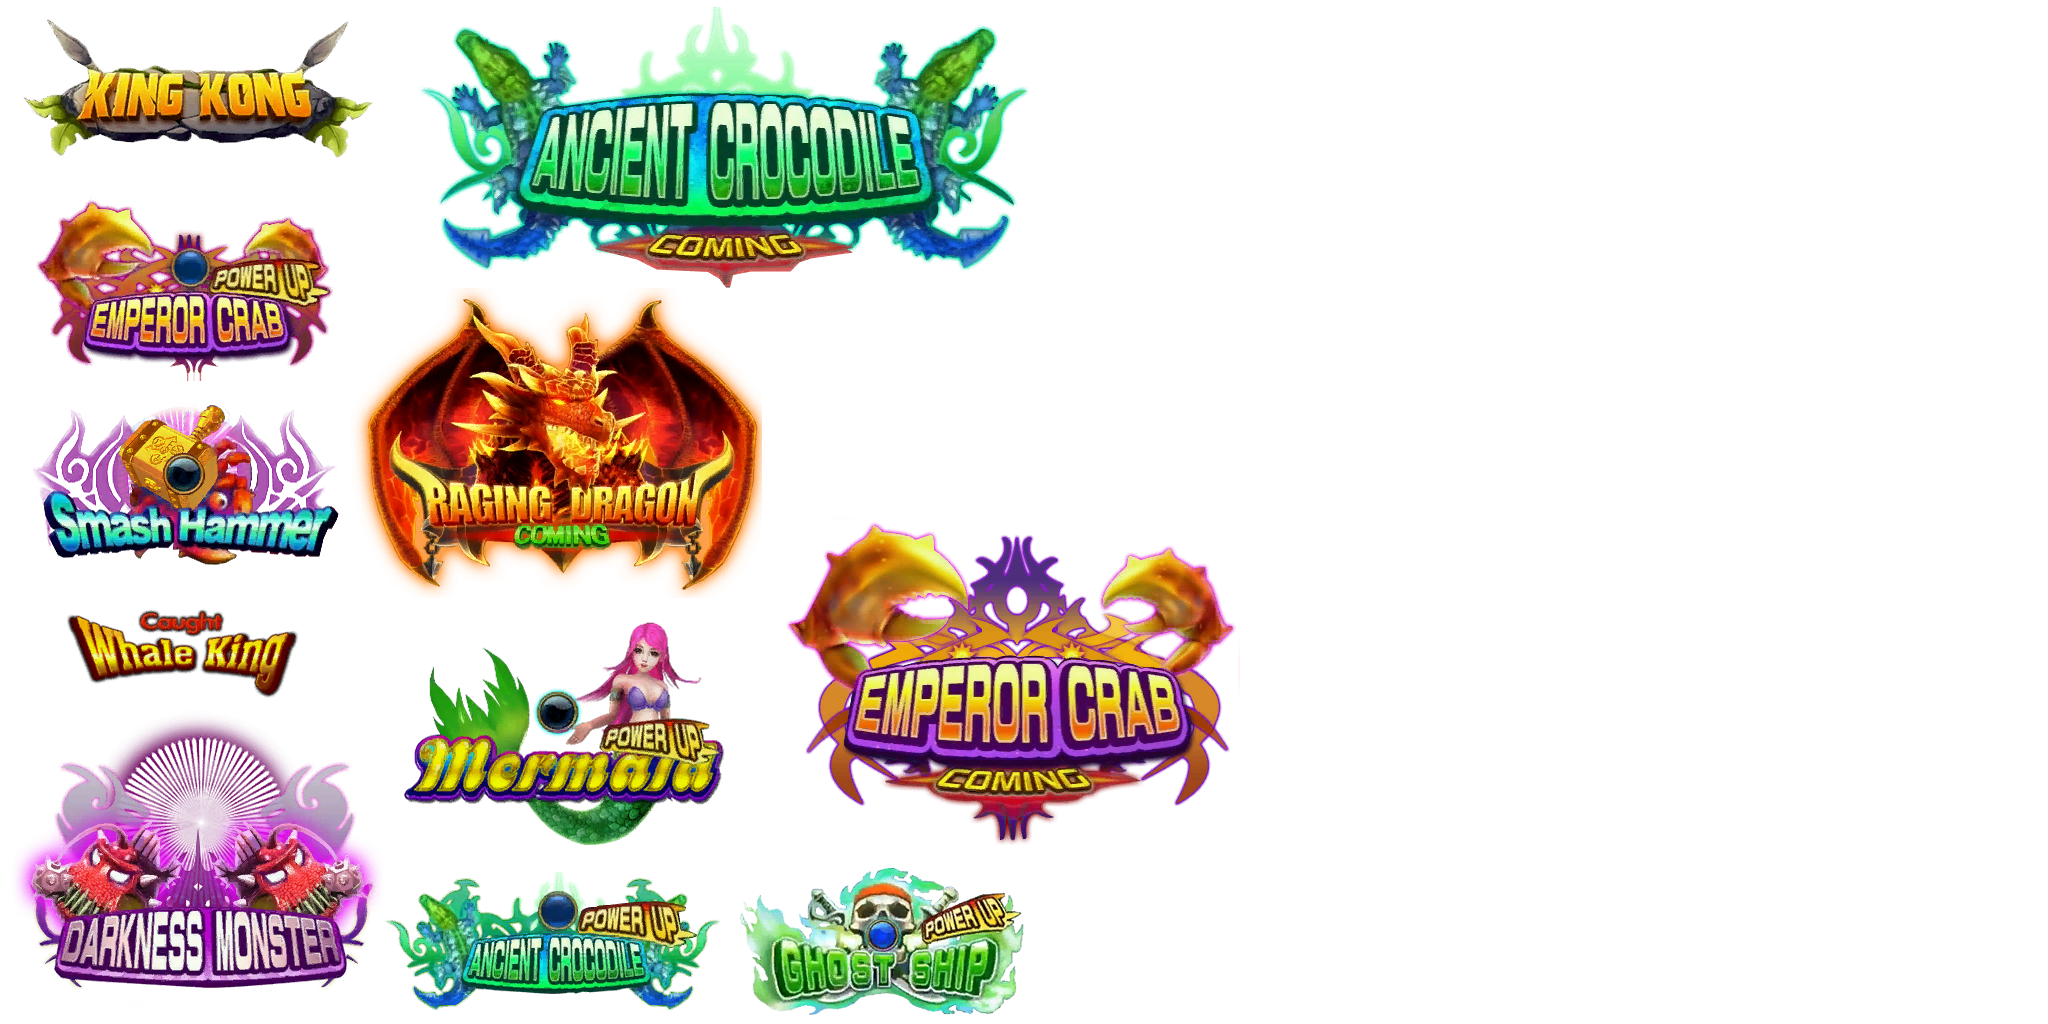
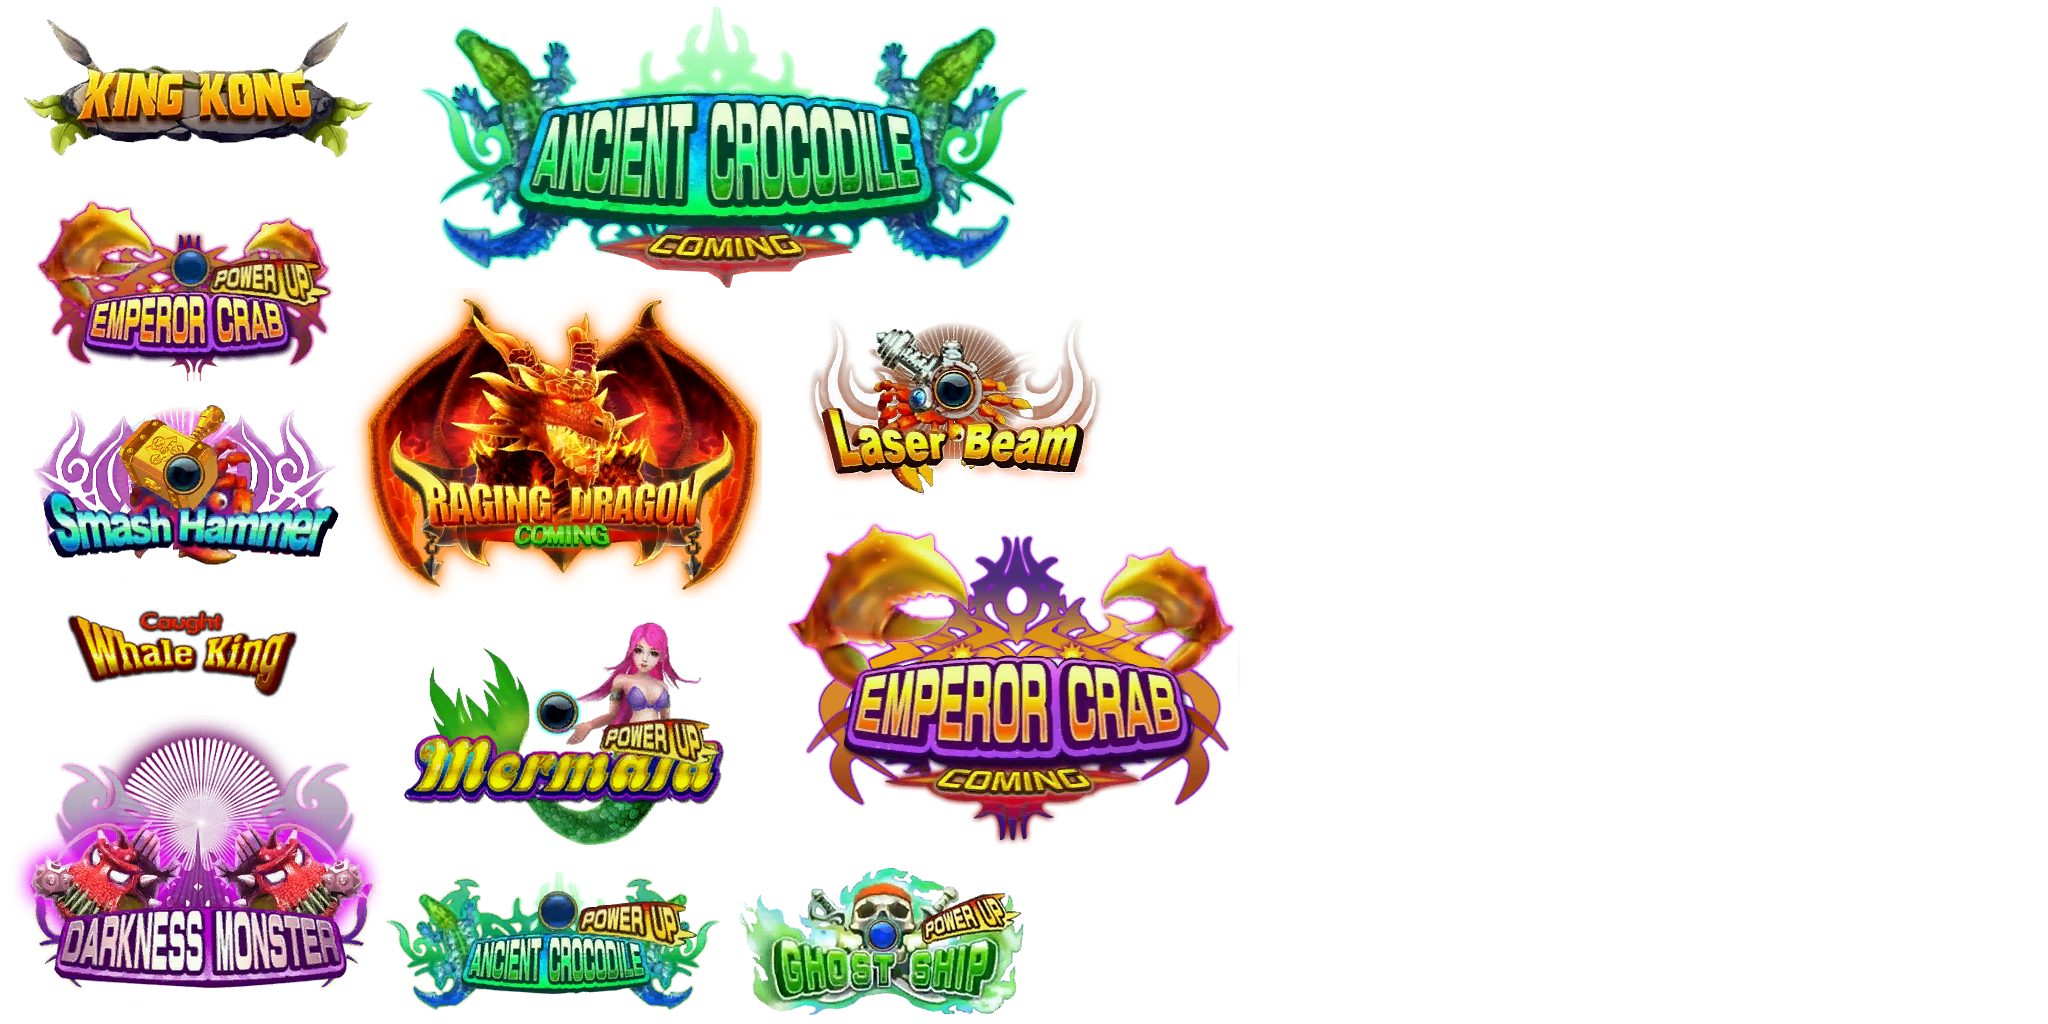
Added_TitleForLaser

Changed region(s): [[0.375, 0.3125, 0.5625, 0.5]]

diff --git a/Assets/Script/FishingGame/Fish/PowerUpCrab.cs b/Assets/Script/FishingGame/Fish/PowerUpCrab.cs
@@ -7,6 +7,7 @@ public class PowerUpCrab : Fish
     [SerializeField] private PowerUpType _powerUpType;
     [SerializeField] private CannonHandler _cannonHandler; //for player temp
     [SerializeField] private GameObject _cannonObject;
+    [SerializeField] private GameObject _powerUpTitle;
 
     protected override void Start()
     {
@@ -20,31 +21,45 @@ public class PowerUpCrab : Fish
         base.OnDead();
 
         _cannonHandler.ActiveLaserCannon();
-        StartCoroutine(MoveCannonObject());
+        StartCoroutine(MoveCannonObjectAndTitle());
     }
 
-    private IEnumerator MoveCannonObject()
+    private IEnumerator MoveCannonObjectAndTitle()
     {
-        Debug.Log("MoveCannonObject");
         float elapsedTime = 0;
         float duration = 2f;
-        
+
+        float titleElapsedTime = 0;
+        float titleDuration = 1.5f;
 
         GameObject cannon = Instantiate(_cannonObject, transform.position, Quaternion.identity, CanvasInstance.Instance.GetForegroundSpawn());
+        GameObject title = Instantiate(_powerUpTitle, transform.position, Quaternion.identity, CanvasInstance.Instance.GetMidGroundSpawn());
 
-        Vector3 startingPosition = cannon.transform.position;
-        Vector3 targetPosition = _cannonHandler.transform.position;
+        Vector3 startingPositionCannon = cannon.transform.position;
+        Vector3 targetPositionCannon = _cannonHandler.transform.position;
+
+        Vector3 startingPositionTitle = title.transform.position;
+        Vector3 targetPositionTitle = _cannonHandler.transform.position + new Vector3(0f, 250f, 0f);
 
         while (elapsedTime < duration)
         {
-            cannon.transform.position = Vector3.Lerp(startingPosition, targetPosition, elapsedTime / duration);
+            cannon.transform.position = Vector3.Lerp(startingPositionCannon, targetPositionCannon, elapsedTime / duration);
             elapsedTime += Time.deltaTime;
+            if(titleElapsedTime < titleDuration)
+            {
+                title.transform.position = Vector3.Lerp(startingPositionTitle, targetPositionTitle, titleElapsedTime / titleDuration);
+                titleElapsedTime += Time.deltaTime;
+            }
             yield return null;
         }
 
-        // Ensure the object ends up exactly at the target position.
-        cannon.transform.position = targetPosition;
+
+
+        // Ensure the objects end up exactly at the target positions.
+        cannon.transform.position = targetPositionCannon;
+        title.transform.position = targetPositionTitle;
         Destroy(cannon.gameObject);
+        Destroy(title.gameObject);
     }
 }
 

diff --git a/Assets/Script/FishingGame/Cannon/LaserCannonController.cs b/Assets/Script/FishingGame/Cannon/LaserCannonController.cs
@@ -1,3 +1,4 @@
+using System;
 using System.Collections;
 using System.Collections.Generic;
 using UnityEngine;
@@ -8,6 +9,8 @@ public class LaserCannonController : MonoBehaviour
     [SerializeField] private Transform _shootPoint;
     [SerializeField] private LaserRenderer _laserRenderer;
 
+    public event Action LaserShoot;
+
     private int _damageAmount;
     private FishHealth _targetFish;
 
@@ -15,7 +18,7 @@ public class LaserCannonController : MonoBehaviour
 
     private void OnEnable()
     {
-        _laserRenderer.gameObject.SetActive(true);
+        //_laserRenderer.gameObject.SetActive(true);
     }
 
     private void OnDisable()
@@ -25,7 +28,7 @@ public class LaserCannonController : MonoBehaviour
 
     private void Update()
     {
-        if (_targetFish != null)
+        if (_targetFish != null && Input.GetMouseButton(0))
         {
             
             _damageTimer += Time.deltaTime;
@@ -37,12 +40,14 @@ public class LaserCannonController : MonoBehaviour
                 }
 
                 _targetFish.Damage(_damageAmount);
+                LaserShoot?.Invoke();
                 _damageTimer = 0f;
             }
         }
         else
         {
             _targetFish = GeneratedFishManager.Instance.GetRandomFish();
+            _laserRenderer.gameObject.SetActive(false);
         }
         //_lineRenderer.gameObject.SetActive(_targetFish != null);
 

diff --git a/Assets/Script/FishingGame/Cannon/CannonHandler.cs b/Assets/Script/FishingGame/Cannon/CannonHandler.cs
@@ -46,7 +46,6 @@ public class CannonHandler : MonoBehaviour
     private void Awake()
     {
         AmountChanged += n => OnAmountChange();
-
     }
 
     private void Start()
@@ -57,6 +56,7 @@ public class CannonHandler : MonoBehaviour
 
         _cannonController.SetPlayerManager(_playerManager);
         
+        _laserCannonController.LaserShoot += OnShoot;
     }
 
     private void OnEnable()
@@ -71,6 +71,7 @@ public class CannonHandler : MonoBehaviour
     private void OnDisable()
     {
         _cannonController.CannonShoot -= OnShoot;
+        _laserCannonController.LaserShoot -= OnShoot;
     }
 
     public void IncreaseAmount()
@@ -165,7 +166,7 @@ public class CannonHandler : MonoBehaviour
 
     IEnumerator LaserCannon()
     {
-        yield return new WaitForSeconds(3f);
+        yield return new WaitForSeconds(2f);
 
         _laserPowerUp.SetActive(true);
         _laserCannon.SetActive(false);

diff --git a/Assets/Script/FishingGame/Cannon/LaserPowerUpController.cs b/Assets/Script/FishingGame/Cannon/LaserPowerUpController.cs
@@ -6,9 +6,15 @@ using UnityEngine.UIElements;
 public class LaserPowerUpController : MonoBehaviour
 {
     [SerializeField] private GameObject _laserBeam;
+    [SerializeField] private GameObject _title;
     [SerializeField] private CannonHandler _cannonHandler;
 
     private bool _shoot = false;
+
+    private void OnEnable()
+    {
+        _title.SetActive(true);
+    }
 
     private void Update()
     {
@@ -54,6 +60,7 @@ public class LaserPowerUpController : MonoBehaviour
 
         yield return new WaitForSeconds(4f);
 
+        _title.SetActive(false);
         _laserBeam.SetActive(false);
         _cannonHandler.SwapWeapon();
         _shoot = false;

diff --git a/Assets/Script/FishingGame/CanvasInstance.cs b/Assets/Script/FishingGame/CanvasInstance.cs
@@ -7,6 +7,7 @@ public class CanvasInstance : MonoBehaviour
 {
     [SerializeField] private Canvas canvas;
     [SerializeField] private Transform _foregroundSpawn;
+    [SerializeField] private Transform _midGroundSpawn;
     [SerializeField] private CannonHandler _cannonHandler;
 
     public static CanvasInstance Instance;
@@ -31,6 +32,11 @@ public class CanvasInstance : MonoBehaviour
     public Transform GetForegroundSpawn()
     {
         return _foregroundSpawn;
+    }
+
+    public Transform GetMidGroundSpawn()
+    {
+        return _midGroundSpawn;
     }
 
     public CannonHandler GetCannonHandler()
